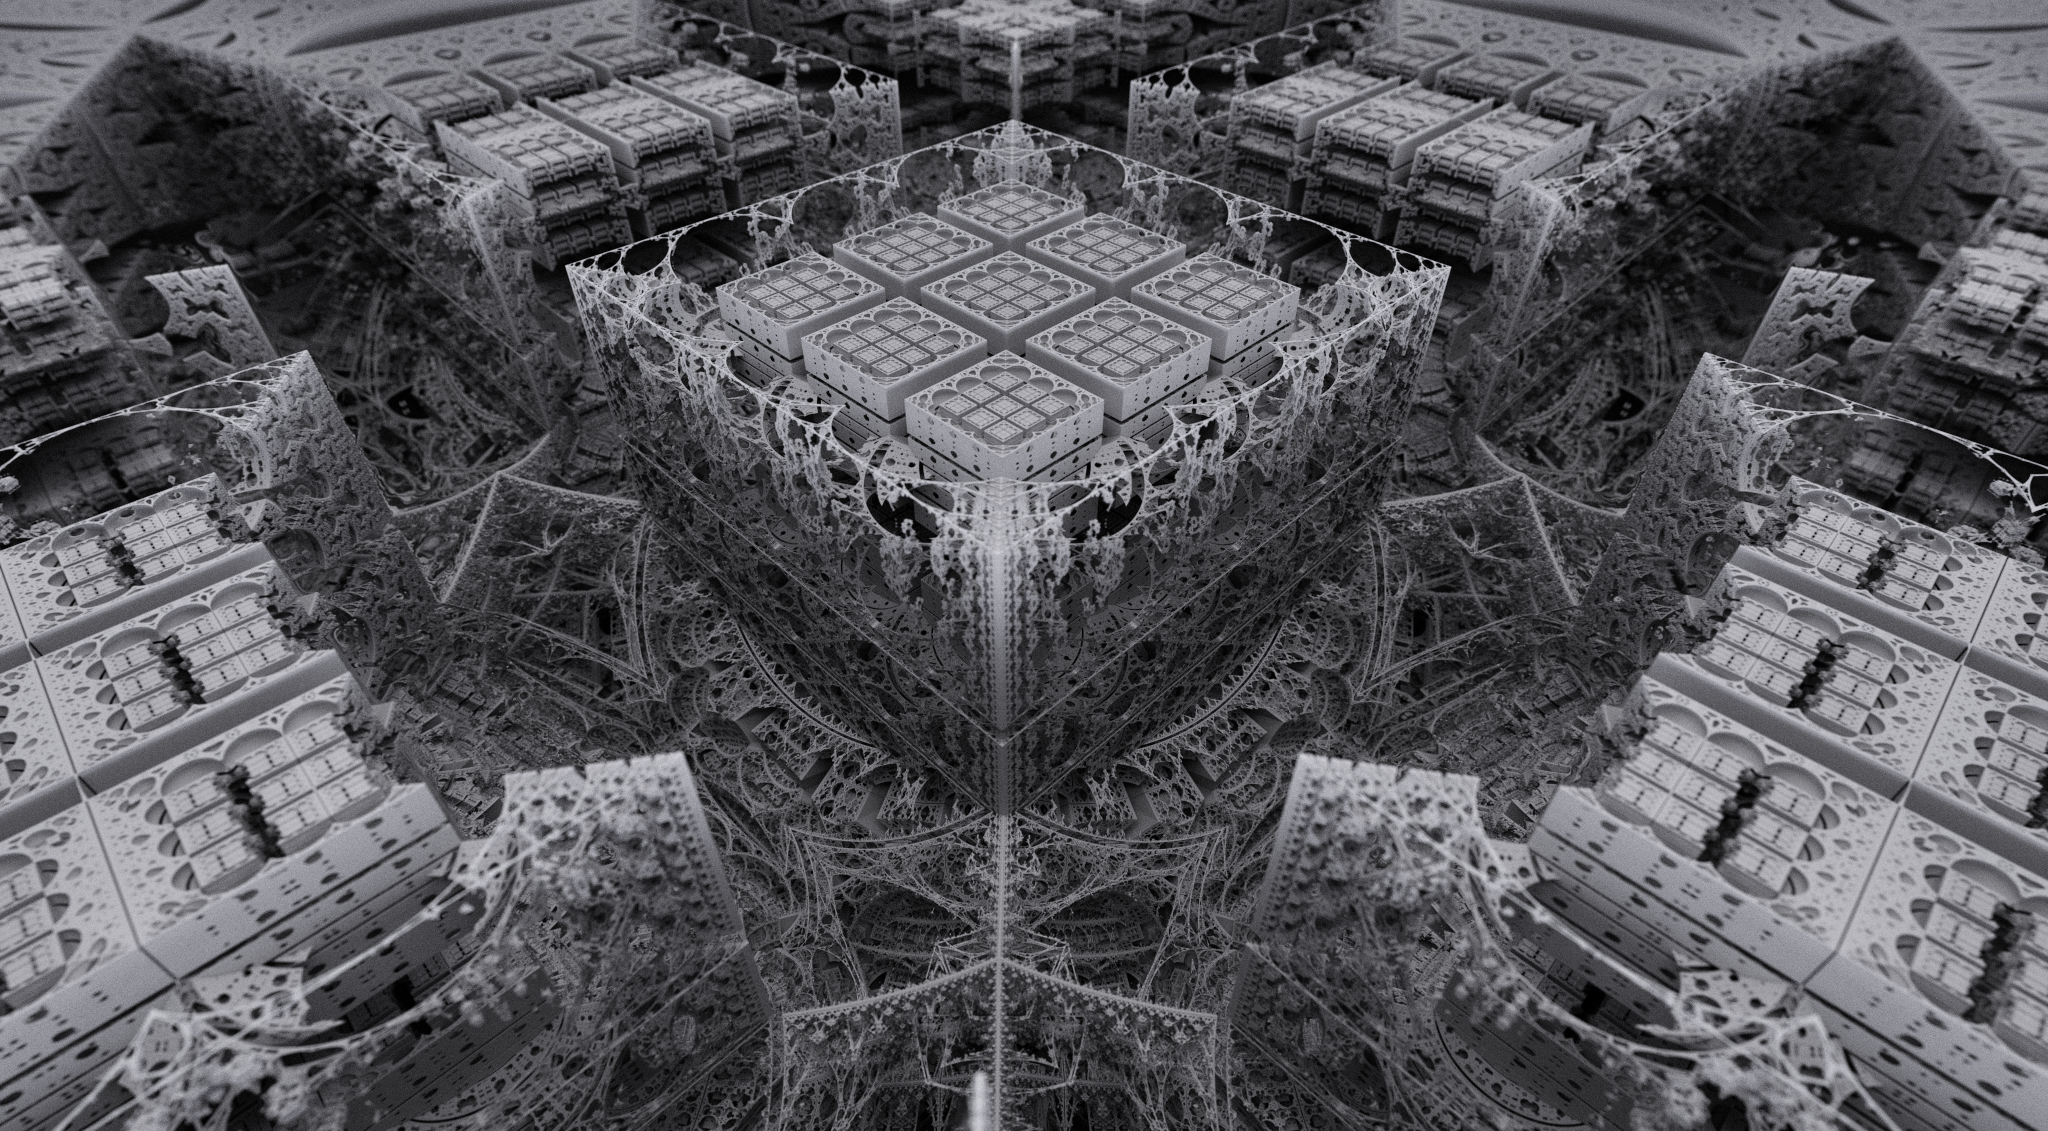
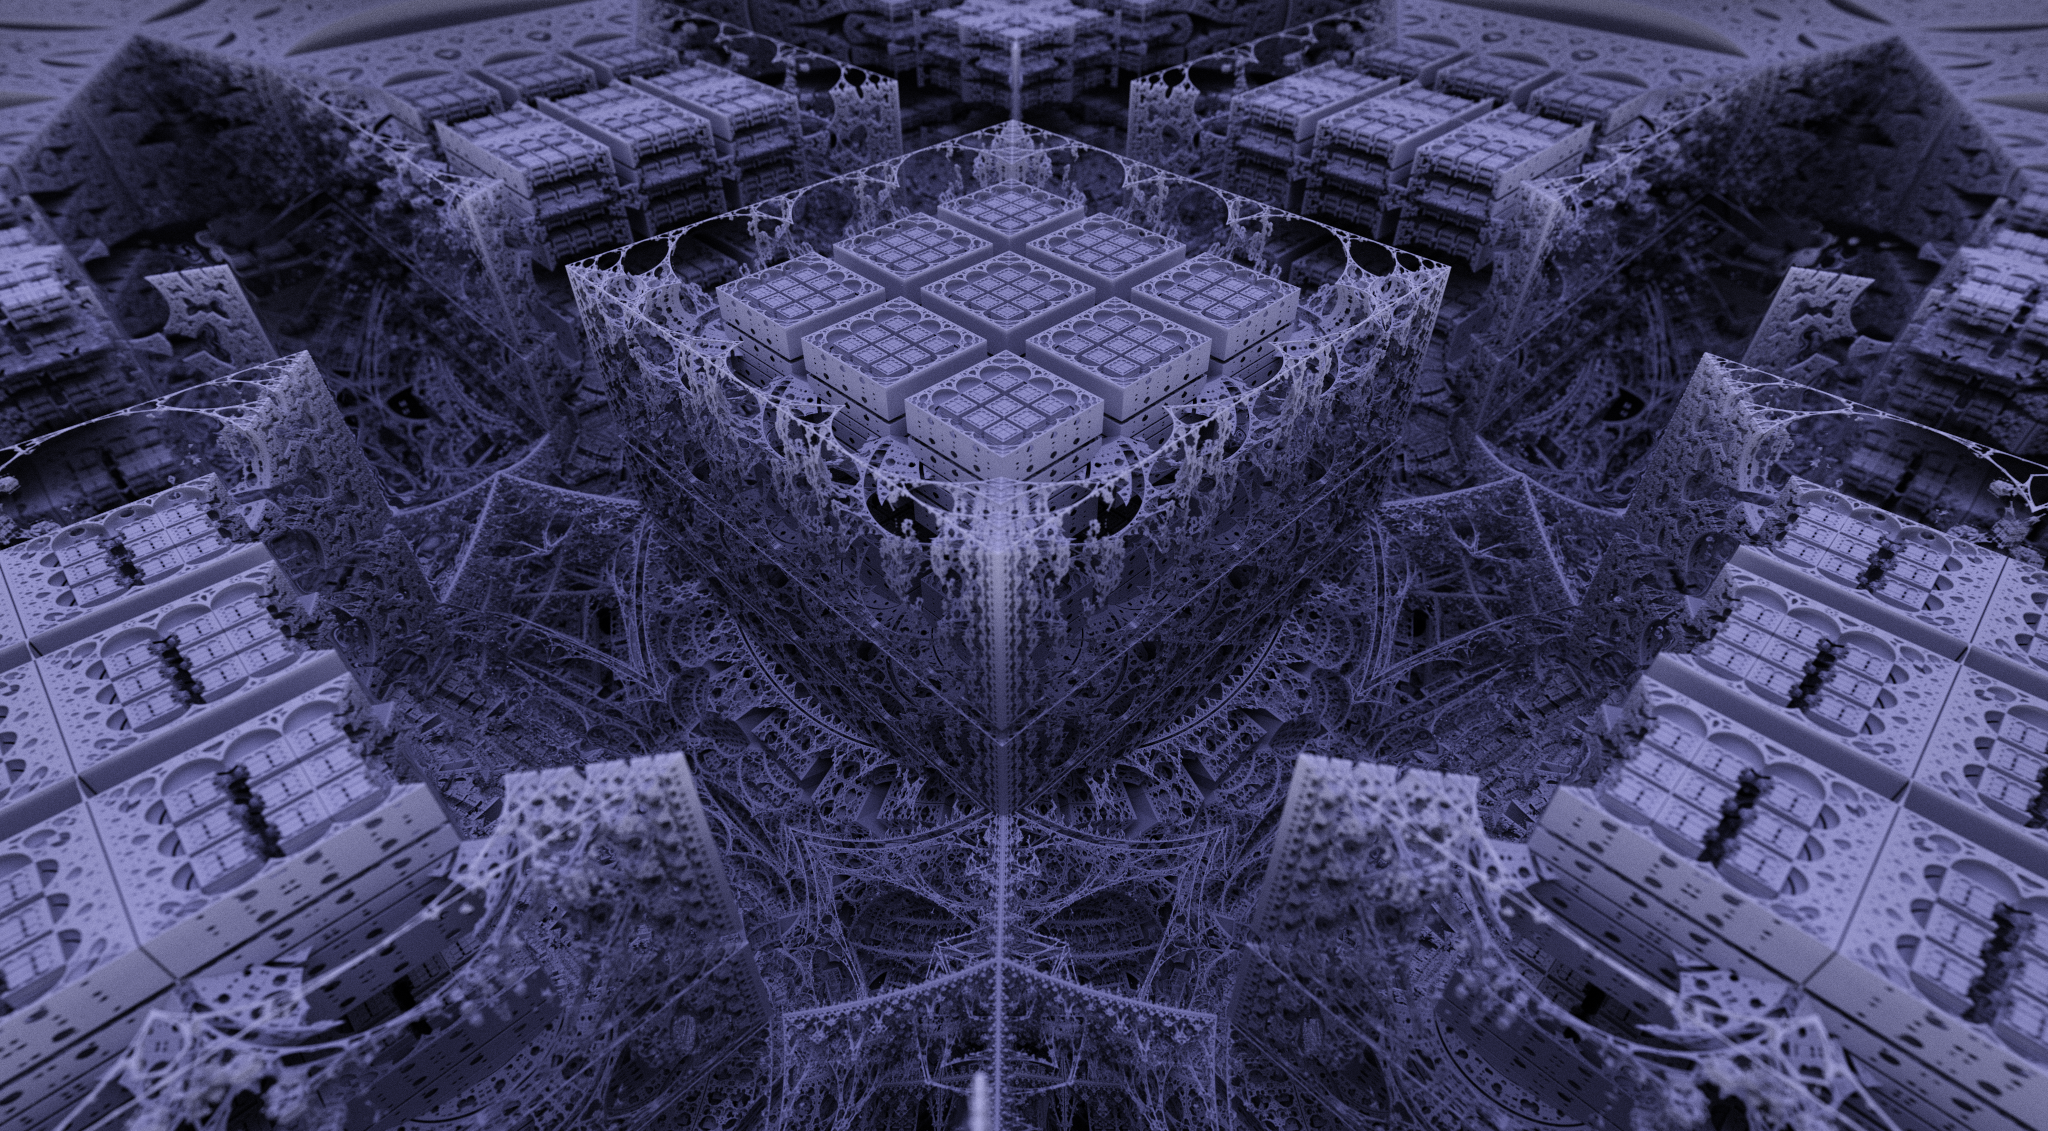
docs abstract

diff --git a/docs/zavrad/zavrsni_rad.tex b/docs/zavrad/zavrsni_rad.tex
@@ -749,6 +749,8 @@ Sljedeće slike služe za prikaz rezultata rada. Vizualizirani su nekoliko frakt
 \label{pog:zakljucak}
 
 \todo{zakljucak}
+\todo{najteži djelovi}
+\todo{moguća poboljšanja}
 
 %--- LITERATURA / REFERENCES ---------------------------------------------------
 
@@ -760,9 +762,7 @@ Sljedeće slike služe za prikaz rezultata rada. Vizualizirani su nekoliko frakt
 
 % Sažetak na hrvatskom
 \begin{sazetak}
-  \todo{Unesite sažetak na hrvatskom.}
-
-  Ovaj rad 
+Ovaj rad se bavi vizualizacijom fraktala. Objasni se osnovna teorija o fraktalima, funkcijama udaljenosti koje se koriste za njihov opis te algoritam praćenja sfere za iscrtavanje tih funkcija. Zatim se prolazi kroz programsku implementaciju napisanu u \emph{JavaScript} koristeći \emph{WebGL2} biblioteku unutar internetskog preglednika. Opiše se organizacija koda, postupak iscrtavanja i korisničko sučelje koje je ostvareno koristeći \emph{HTML} i \emph{CSS}. Istražuju se načini pretvorbe podataka iz algoritma praćenja sfere u sliku za prikaz na ekranu i konačno se provode mjerenja performansi programa.
 \end{sazetak}
 
 \begin{kljucnerijeci}
@@ -771,7 +771,7 @@ Sljedeće slike služe za prikaz rezultata rada. Vizualizirani su nekoliko frakt
 
 % Abstract in English
 \begin{abstract}
-  \todo{Enter the abstract in English.}
+This paper deals with the visualization of fractals. It explains the basic theory of fractals, distance functions used for their description, and the sphere tracing algorithm for rendering these functions. It then goes through the program implementation written in \emph{JavaScript} using the \emph{WebGL2} library within a web browser. It breaks down the code organization, rendering process, and describes the user interface implemented using \emph{HTML} and \emph{CSS}. It explores methods of converting data from the sphere tracing algorithm into an image that is displayed on the screen. Finally, some performance measurements of the program are carried out.
 \end{abstract}
 
 \begin{keywords}